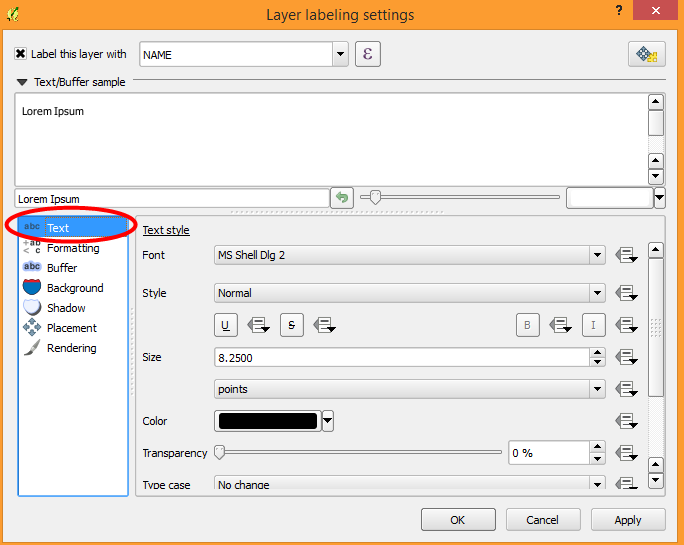
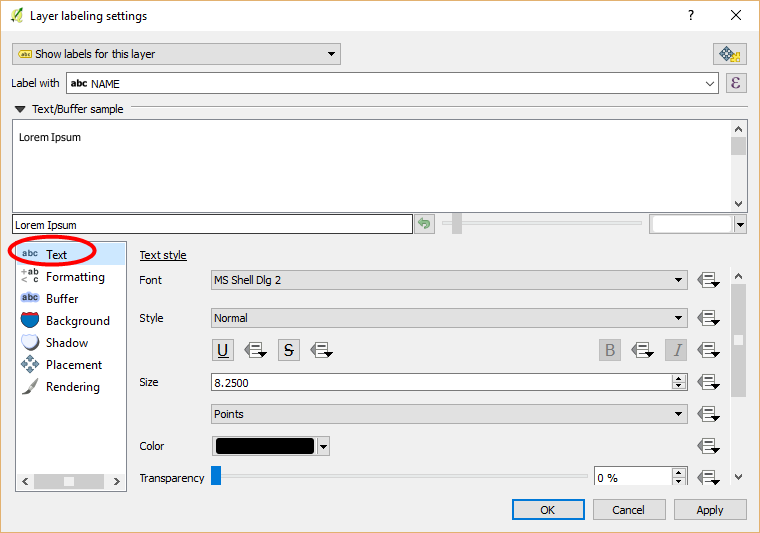
fix QGIS training material

Changed region(s): [[0.0, 0.0, 1.0, 1.0]]

diff --git a/docs/source/training/qgis/Chapter-05-Working_with_Vector_Data.rst b/docs/source/training/qgis/Chapter-05-Working_with_Vector_Data.rst
@@ -812,14 +812,14 @@ Before being able to access the Label tool, you will need to ensure that it has 
 
 3. Click on the **POI_Sleman_OSM** layer in the :guilabel:`Layers` list, so that it is highlighted.
 
-4.  Click on the :guilabel:`Labelling` button:
+4.  Click on the :guilabel:`Labeling` button:
 
 .. image:: /static/training/qgis/5_083.*
    :align: center
 
 This gives you the :guilabel:`Layer labeling settings` dialog.
 
-5. Check the box next to :guilabel:`Label this layer with`....
+5. Click drop down box in :guilabel:`no label` box and select :guilabel:`Show labels for this layer` in drop down box.
 
 .. image:: /static/training/qgis/5_084.*
    :align: center
@@ -861,7 +861,7 @@ Now you can see why we usually need label buffers!
 
 That’s the font problem solved! Now let’s look at the problem of the labels overlapping the points.
 
-12. In the Label tool dialog, click on :guilabel:`Distance` tab.
+12. In the Label tool dialog, click on :guilabel:`Placement` tab.
 
 13. Change the value of Label distance to 2.
 
@@ -886,8 +886,7 @@ This is not very useful! To make lines behave, we’ll need to edit some options
 
 1. Hide the **POI_Sleman_OSM** layer so that it doesn’t distract you.
 
-2. Activate labels for the **Jalan_Sleman_OSM** layer as before. (Remember to use the Label tool on the toolbar, 
-   not the one in Label Properties!)
+2. Activate labels for the **Jalan_Sleman_OSM** layer as before. 
 
 3. Set the font Size to 9 and activate the buffer so that you can see more labels.
 

diff --git a/docs/source/training/qgis/Chapter-03-Basic_QGIS.rst b/docs/source/training/qgis/Chapter-03-Basic_QGIS.rst
@@ -32,7 +32,7 @@ Otherwise, let’s start here and get QGIS installed.
 
 The QGIS website will look something like this:
 
-.. image:: /static/training/osm/3_002.*
+.. image:: /static/training/qgis/3_002.*
    :align: center
 
 2.  Click :guilabel:`Download Now`
